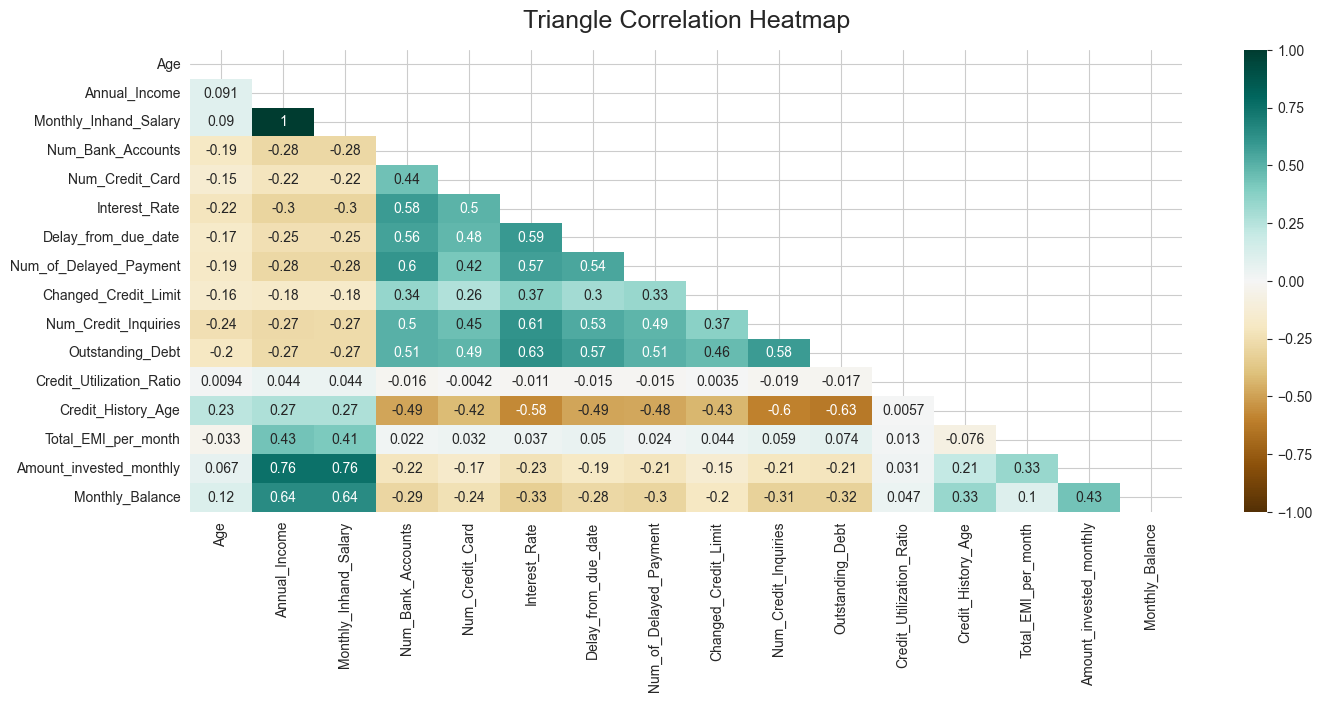
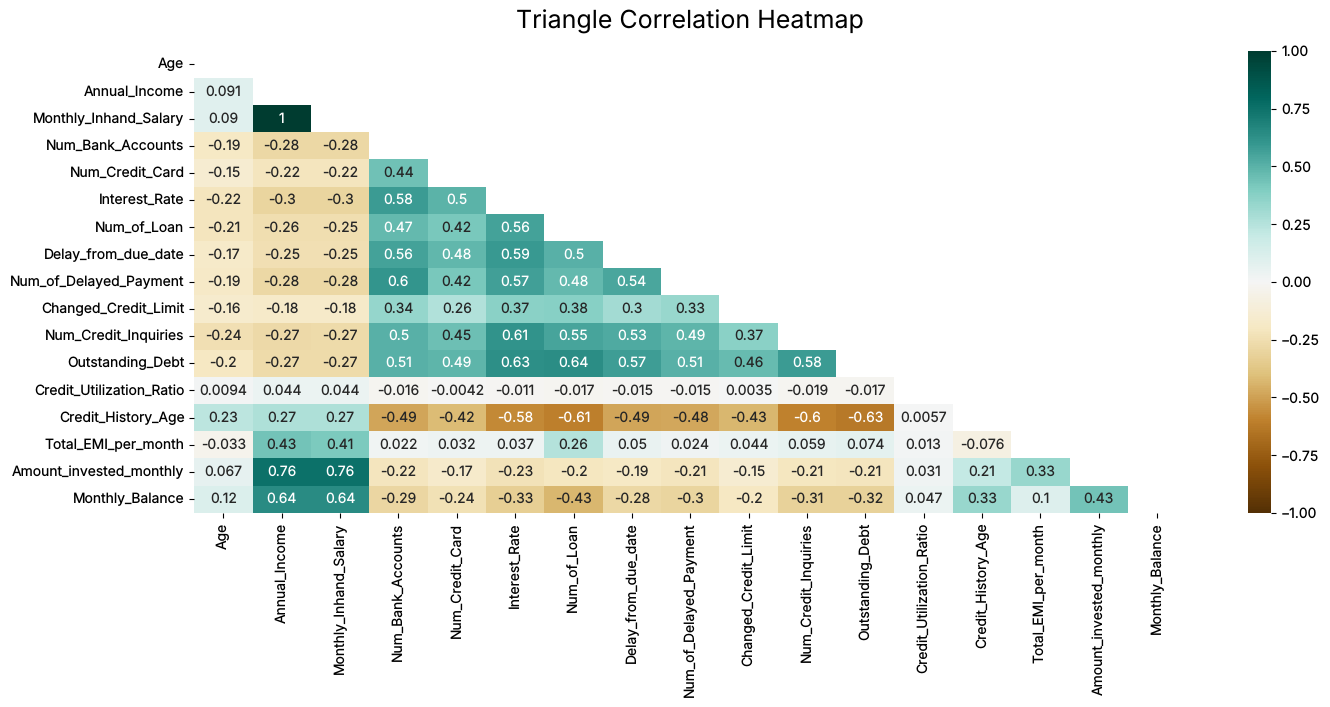
Update the README for publishing
- banner and a project-at-a-glance summary
- results: row-level table, data leakage check, final customer-level
  models with ROC-AUC, ROC curves, confusion matrices, feature
  importances and pipelines; updated conclusion and next steps
- accurate feature counts (8 for the small-subset models, 11 for the
  final models) and micro-average note
- original CRISP-DM diagram for this project (replaces an image of
  unclear origin) and the correlation heatmap from the re-executed EDA
- how to run with the pinned environment

Claude-Session: https://claude.ai/code/session_01EtrAgyPEoFbeTGtjDf7i5s

diff --git a/branding/source/crisp_dm_process.html b/branding/source/crisp_dm_process.html
@@ -1,0 +1,63 @@
+<!doctype html>
+<html lang="en"><head><meta charset="utf-8"><title>CRISP-DM process</title>
+<style>
+  * { box-sizing:border-box; margin:0; }
+  html, body { width:1600px; height:580px; overflow:hidden; }
+  body { background:#FFFFFF; font-family:Inter, sans-serif; color:#1B1E28; position:relative;
+         -webkit-font-smoothing:antialiased; }
+  .row { position:absolute; left:48px; right:48px; top:150px; display:grid;
+         grid-template-columns:repeat(6, 1fr); gap:40px; }
+  .card { position:relative; background:#FAF7F5; border:1px solid #E6E0DC; border-radius:16px;
+          padding:22px 20px 22px; }
+  .num { width:34px; height:34px; border-radius:50%; background:#BE3144; color:#fff;
+         font:600 16px Inter; display:flex; align-items:center; justify-content:center; }
+  .card.eval .num { background:#872341; }
+  h3 { margin-top:16px; font:600 20px/1.2 Inter; letter-spacing:-.01em; }
+  p { margin-top:10px; font-size:15px; line-height:1.45; color:#4A4F5E; }
+  .arrow { position:absolute; top:50%; right:-34px; width:28px; height:2px; background:#9097A6; }
+  .arrow::after { content:""; position:absolute; right:-1px; top:-5px; border-left:9px solid #9097A6;
+                  border-top:6px solid transparent; border-bottom:6px solid transparent; }
+  .data { position:absolute; left:48px; right:48px; top:438px; height:62px; border-radius:14px;
+          background:#1B1E28; color:#F4F2F5; display:flex; align-items:center; gap:14px; padding:0 24px;
+          font-size:16px; }
+  .data b { font-weight:600; }
+  .data span { color:#A9AEBC; }
+  .tag { font:500 13px "JetBrains Mono"; letter-spacing:.08em; text-transform:uppercase; color:#F8906F; }
+  .title { position:absolute; left:48px; top:36px; font:600 26px Inter; letter-spacing:-.02em; }
+  .sub { position:absolute; left:48px; top:76px; font-size:16px; color:#4A4F5E; }
+  .loop-label { position:absolute; top:94px; font:500 14px Inter; color:#872341; background:#FFFFFF;
+                padding:0 10px; }
+  .foot { position:absolute; left:48px; bottom:28px; font-size:14px; color:#7D8294; }
+</style></head>
+<body>
+  <div class="title">CRISP-DM, as applied in this project</div>
+  <div class="sub">Six phases, run iteratively: evaluation findings send the work back to earlier phases.</div>
+
+  <!-- loop arrow: Evaluation (card 5) back to Data Preparation (card 3) -->
+  <svg width="1600" height="580" style="position:absolute;left:0;top:0" aria-hidden="true">
+    <defs><marker id="h" markerWidth="12" markerHeight="12" refX="6" refY="6" orient="auto">
+      <path d="M1,1 L11,6 L1,11 Z" fill="#872341"/></marker></defs>
+    <path d="M1186,148 C1186,116 1170,110 1140,110 L717,110 C687,110 671,116 671,140"
+          fill="none" stroke="#872341" stroke-width="2" marker-end="url(#h)"/>
+  </svg>
+  <div class="loop-label" style="left:704px;top:100px">iterate: customer-level re-validation after the leakage check</div>
+
+  <div class="row">
+    <div class="card"><div class="num">1</div><h3>Business understanding</h3>
+      <p>Financial inclusion: can ML predict a customer’s credit tier (Poor / Standard / Good)?</p><i class="arrow"></i></div>
+    <div class="card"><div class="num">2</div><h3>Data understanding</h3>
+      <p>100K monthly records, 28 columns: corrupted values, outliers, missing data.</p><i class="arrow"></i></div>
+    <div class="card"><div class="num">3</div><h3>Data preparation</h3>
+      <p>Customer-level cleaning and imputation, feature selection, scaling and encoding pipelines.</p><i class="arrow"></i></div>
+    <div class="card"><div class="num">4</div><h3>Modelling</h3>
+      <p>6 model families tuned with GridSearchCV and k-fold cross-validation on ROC-AUC.</p><i class="arrow"></i></div>
+    <div class="card eval"><div class="num">5</div><h3>Evaluation</h3>
+      <p>ROC-AUC, confusion matrices, overfitting checks and a data-leakage check.</p><i class="arrow"></i></div>
+    <div class="card"><div class="num">6</div><h3>Deployment</h3>
+      <p>Recommendation: Gradient Boosting for accuracy, Logistic Regression for speed.</p></div>
+  </div>
+
+  <div class="data"><span class="tag">Data</span><b>Kaggle “Credit Score Classification”</b>
+    <span>· 100,000 records · 12,500 customers × 8 months · target: Poor / Standard / Good</span></div>
+  <div class="foot">Process model: CRISP-DM (Cross-Industry Standard Process for Data Mining). Diagram drawn for this project.</div>
+</body></html>

diff --git a/README.md b/README.md
@@ -1,6 +1,19 @@
 # Enhancing Credit Score Prediction To Promote Financial Inclusion
 
+![ScoreBridge: credit score classification with machine learning](./branding/scorebridge_showcase.png)
+
 **Author**: Vassilis Tsoubris
+
+## Project at a glance
+
+| | |
+|---|---|
+| **Goal** | Predict a customer's credit score tier (**Poor / Standard / Good**) from financial and behavioural data, to support lending decisions and promote financial inclusion. |
+| **Data** | Kaggle "Credit Score Classification": 100,000 monthly records of 12,500 customers (8 months each), 28 columns with corrupted values, outliers and missing data. |
+| **Approach** | CRISP-DM: customer-level data cleaning, EDA and expert-informed feature selection, scikit-learn pipelines, 6 model families tuned with GridSearchCV on ROC-AUC. |
+| **Key finding** | The 100k dataset contains 8 monthly records per customer. A random row-level split placed the same customers in both the training and the test set and inflated the scores (Random Forest: 80.2% with the random split vs 66.1% on unseen customers). Customer-level validation (GroupShuffleSplit + GroupKFold) gives realistic results. |
+| **Result** | Final **Random Forest** on unseen customers: **69.9% accuracy** vs a 53.1% baseline, one-vs-rest ROC-AUC 0.87 (Good), 0.85 (Poor), 0.79 (Standard). Gradient Boosting is a close second (69.5%) and Logistic Regression a fast, interpretable alternative (63.4%). |
+| **Stack** | Python, pandas, NumPy, scikit-learn, Matplotlib, Seaborn, Yellowbrick, Jupyter |
 
 ## Executive summary
 
@@ -70,14 +83,14 @@ Below a **brief explanation of each feature is demonstrated**:
 - **Credit_Score**: The credit score of the customers.
 
 After the data cleansing, EDA and feature engineering it was decided to use **two subsets of the dataset** in the modelling phase:
-- A **small subset** (11 features and 12.5k observations) of the cleaned dataset.
-- A **bigger subset** (100k observations - 14 features) which was used after the initial modelling phase on specific models.
+- A **small subset** (12.5k observations, the most recent month of every customer) with 11 features, of which the models use 8 (Credit_Utilization_Ratio, Occupation and Payment_Behaviour were excluded after the EDA).
+- A **bigger subset** (100k observations, all 8 months of every customer) with 14 features, of which the final models use 11 (the same 8 plus Num_Bank_Accounts, Num_of_Loan and Changed_Credit_Limit). It was used after the initial modelling phase on specific models.
 
 ### Methodology
 
 During this project the **CRISP-DM methodology** was followed:
 
-![CRISPDM](./images/CRISP-DM.jpg)
+![CRISP-DM process as applied in this project](./images/crisp_dm_process.png)
 
 The **Cross-Industry Standard Process for Data Mining (CRISP-DM)** is a robust and widely used approach for managing data science projects. This process model provides a structured approach to planning a data science project and includes six different phases.
 Let's explore how these phases fit into your project:
@@ -109,10 +122,10 @@ Also, the percentages per class of the target variable are shown below for the s
 
 
 
-- **Modelling**: In this stage, various modeling techniques are selected and applied, and their parameters are calibrated to optimal values. More specifically I used Logistic Regression, Decision Trees, SVM, KNN and various ensemble models. The hyperparameters of the models were fine-tuned using the Grid Search approach. Also, using the K-fold Cross Validation strategy, I mitigated the risk of overfitting the created models. 
+- **Modelling**: In this stage, various modeling techniques are selected and applied, and their parameters are calibrated to optimal values. More specifically I used Logistic Regression, Decision Trees, SVM, KNN and various ensemble models. The hyperparameters of the models were fine-tuned using the Grid Search approach. Also, using the K-fold Cross Validation strategy, I mitigated the risk of overfitting the created models. For the final models, both the cross validation (**GroupKFold**) and the train/test split (**GroupShuffleSplit**) are done **by customer**, so every customer is either in the training or in the test data.
 
 - **Evaluation**: This stage involves the evaluation of the models that were created in the modelling phase. If the models do not deliver acceptable results, I should revisit the data preparation or modelling stages. Various evaluation metrics were used including accuracy score, f1 score, ROC curves and AUC scores.
-ROC-AUC scores were the metrics that I was mainly based my decisions on modelling strategies. 
+ROC-AUC scores were the metrics that I was mainly based my decisions on modelling strategies. Finally, a **data leakage check** showed that a random split of the monthly records overestimated the performance, so the final results are measured on **unseen customers** (see Results).
 
 - **Deployment**: The final models are deployed and used to solve the initial business problem. The predictions or information derived from the model is utilized in decision-making processes.
 
@@ -133,60 +146,85 @@ You can check the AUC scores and ROC curve plots of all models in Notebook 4. In
 The baseline accuracy (the maximum of the relative frequencies of the unique values) is 51.88% for the small subset (12.5k observations) and 53.17% for the bigger subset (100k observations).
 Every model that achieves a performance equal or greater than the above baseline accuracies could be considered for deployment. Furthermore, the models are evaluated in ROC curves and AUC scores.
 
-By using the small subset (11 features and 12.5k observations) of the cleaned dataset (only 1 of the 8 included months per customer) Logistic Regression, KNN, Decision Trees, SVM and Ensemble models were created.
+By using the small subset (12.5k observations, 8 features used by the models) of the cleaned dataset (only 1 of the 8 included months per customer) Logistic Regression, KNN, Decision Trees, SVM and Ensemble models were created.
 Their results are demonstrated below: 
 
-**Important note**: You will notice that **test accuracy**, **recall**, **precision** and **f1** are similar. This is because of the **micro-average** used in the metrics. 
-**Micro-average** gives more weight to the majority class and is particularly useful when dealing with imbalanced class distributions.
+**Important note**: You will notice that **test accuracy**, **recall**, **precision** and **f1** are the same. This is because of the **micro-average** used in the metrics. 
+**Micro-average** aggregates the predictions of all classes, so in a single-label multiclass problem the micro-averaged recall, precision and f1 are equal to the accuracy. The per-class metrics (classification reports) are shown in **Notebook 4**.
 Furthermore, all models demonstrated on the tables below were fine-tuned by using the **Grid Search algorithm (exhaustive hyperparameters search) with K-folds Cross Validation**.
 
-| Models (12.5k observations - 11 features ) | training_time | train_accuracy | test_accuracy     | recall (micro-average)     | precision (micro-average)    | f1_score (micro-average)|   
+| Models (12.5k observations - 8 features )  | training_time | train_accuracy | test_accuracy     | recall (micro-average)     | precision (micro-average)    | f1_score (micro-average)|   
 |--------------------------------------------|--------------|---------------|-------------------|----------------------------|------------------------------|-------------------------|
-| Logistic Regression                        | 0.06         | 0.56          | 0.56              | 0.56                       | 0.56                         | 0.56                    |        
-| KNN Classifier                             | 0.04         | 1.00          | 0.61              | 0.61                       | 0.61                         | 0.61                    |      
-| Decision Tree Classifier                   | 0.04         | 0.59          | 0.61              | 0.61                       | 0.61                         | 0.61                    |
-| SVM Classifier                             | 10.13        | 0.60          | 0.60              | 0.60                       | 0.60                         | 0.60                    |
-| Random Forest Classifier                   | 4.48         | 0.75          | 0.62              | 0.62                       | 0.62                         | 0.62                    |
-| Gradient Boosting Classifier               | 2.17         | 0.65          | 0.62              | 0.62                       | 0.62                         | 0.62                    |
+| Logistic Regression                        | 0.05         | 0.56          | 0.56              | 0.56                       | 0.56                         | 0.56                    |        
+| KNN Classifier                             | 0.03         | 1.00          | 0.61              | 0.61                       | 0.61                         | 0.61                    |      
+| Decision Tree Classifier                   | 0.03         | 0.59          | 0.61              | 0.61                       | 0.61                         | 0.61                    |
+| SVM Classifier                             | 5.83         | 0.60          | 0.60              | 0.60                       | 0.60                         | 0.60                    |
+| Random Forest Classifier                   | 3.50         | 0.75          | 0.62              | 0.62                       | 0.62                         | 0.62                    |
+| Gradient Boosting Classifier               | 2.09         | 0.65          | 0.62              | 0.62                       | 0.62                         | 0.62                    |
 
-Logistic Regression, Random Forest and Gradient Boosting Classifiers are then trained on the big subset which includes more features and contains all the months per customer (100k observations).
-In other words, the dataset contains 14 features and 100k observations. The results of the new final models are shown below:
+Logistic Regression, Random Forest and Gradient Boosting Classifiers are then trained on the big subset which contains all the months per customer (100k observations).
+Using a random (row-level) train/test split, the results of these models are shown below:
 
-| Final Models (100k observations - 14 features ) | training_time | train_accuracy | test_accuracy | recall (micro-average)     | precision (micro-average)    | f1_score (micro-average)|   
-|-------------------------------------------------|---------------|----------------|---------------|----------------------------|------------------------------|-------------------------|
-| Logistic Regression                             | 0.46          | 0.61           | 0.62          | 0.62                       | 0.62                         | 0.62                    |
-| Random Forest Classifier                        | 63.88         | 0.88           | 0.80          | 0.80                       | 0.80                         | 0.80                    |
-| Gradient Boosting Classifier                    | 33.91         | 0.78           | 0.74          | 0.74                       | 0.74                         | 0.74                    |
+| Models (100k observations - row-level split) | training_time | train_accuracy | test_accuracy | recall (micro-average) | precision (micro-average) | f1_score (micro-average) |
+|----------------------------------------------|---------------|----------------|---------------|------------------------|---------------------------|--------------------------|
+| Logistic Regression                          | 0.38          | 0.61           | 0.62          | 0.62                   | 0.62                      | 0.62                     |
+| Random Forest Classifier                     | 47.98         | 0.88           | 0.80          | 0.80                   | 0.80                      | 0.80                     |
+| Gradient Boosting Classifier                 | 32.64         | 0.78           | 0.74          | 0.74                   | 0.74                      | 0.74                     |
+
+#### Data leakage check: customer-level validation
+These results looked excellent, but they are **optimistic**. The bigger subset contains **8 monthly records per customer** and the random split placed records of the **same customer** in both the training and the test set (100% of the test observations belong to customers that also appear in the training set).
+Features such as Annual_Income, Outstanding_Debt and Credit_Mix never change for a customer (the pair of Annual_Income and Outstanding_Debt alone is unique for every one of the 12,500 customers), so the tree-based models could recognise (*memorise*) customers instead of learning patterns that generalise.
+In practice, a credit scoring model is used on **new customers**, so I evaluated the models again with a **customer-level split**:
+- **GroupShuffleSplit**: 20% of the customers (2,500 customers with all their records) are kept for testing.
+- **GroupKFold** (K=3) as the cross validation strategy of **GridSearchCV**, so the hyperparameters are also chosen on unseen customers. Since the earlier hyperparameters were optimised on leaked data, the grids also include simpler (more regularised) values.
+- The preprocessors are created from the bigger subset, so the 3 features that were added for it are actually used (the earlier pipelines reused the preprocessors of the small subset with remainder='drop', so those models used only 8 features).
+
+![leakage_check](./images/leakage_check_accuracy.png)
+
+| Test accuracy        | Row-level split (data leakage) | Customer-level split (same model) | Customer-level split (tuned on unseen customers) |
+|----------------------|--------------------------------|-----------------------------------|--------------------------------------------------|
+| Logistic Regression  | 61.7%                          | 61.4%                             | 63.4%                                            |
+| Random Forest        | 80.2%                          | 66.1%                             | **69.9%**                                        |
+| Gradient Boosting    | 74.0%                          | 64.8%                             | 69.5%                                            |
+
+On new customers the tree-based ensembles lose 9 to 14 points of accuracy with exactly the same models, while Logistic Regression (a linear model that cannot memorise customers) is almost unaffected. Tuning on unseen customers selects simpler models and recovers a large part of the gap.
+
+The final models (customer-level validation, 11 features) are shown below. The baseline accuracy of the customer-level test set is 53.12%.
+
+| Final Models (100k observations - customer-level validation) | training_time | train_accuracy | test_accuracy | recall (micro-average) | precision (micro-average) | f1_score (micro-average) | ROC-AUC (macro, one-vs-rest) |
+|--------------------------------------------------------------|---------------|----------------|---------------|------------------------|---------------------------|--------------------------|------------------------------|
+| Logistic Regression                                          | 0.40          | 0.63           | 0.63          | 0.63                   | 0.63                      | 0.63                     | 0.79                         |
+| Random Forest Classifier                                     | 9.32          | 0.72           | **0.70**      | 0.70                   | 0.70                      | 0.70                     | **0.84**                     |
+| Gradient Boosting Classifier                                 | 18.42         | 0.70           | 0.69          | 0.69                   | 0.69                      | 0.69                     | 0.83                         |
 
 According to the above results of the final models:
-- Random Forests give excellent results but tend to overfit. In other words, there is a high probability to give wrong predictions if more unseen data is introduced to the problem. We should avoid deploying these models.
-- Gradient Boosting Classifiers should be the alternative if the performance is our goal. Although they tend to overfit, the value difference between train and test accuracy score is smaller than of the random forest classifiers'. In other words GB Classifiers are more suitable models for credit scoring.
-- If training speed is our goal we should choose Logistic Regression. Logistic Regression is widely used on Credit Scoring systems and has a good performance (not excellent).
+- The **Random Forest Classifier** gives the best results on unseen customers: 69.9% accuracy and ROC-AUC scores of 0.87 (Good), 0.85 (Poor) and 0.79 (Standard). Tuned with the customer-level cross validation it is regularised (max_depth=10, min_samples_leaf=5), so the overfitting of the earlier Random Forests, which memorised customers, is solved.
+- The **Gradient Boosting Classifier** is a close alternative (69.5% accuracy) with an even smaller gap between the train and test accuracy. The difference between the two ensembles is small, so both are suitable for credit scoring.
+- If training speed is our goal we should choose **Logistic Regression**. Logistic Regression is widely used on Credit Scoring systems and has a good performance (not excellent), and it is easy to interpret.
 
-Below, the ROC curves of the final chosen models are presented along with their confusion matrices. 
+Below, the ROC curves of the final chosen models are presented along with their confusion matrices.
 
-Furthermore , the mapping of classes is demonstrated below (needed to interpret the confusion matrices):
-- Good: 0
-- Poor: 1
-- Standard: 2
+**Final Random Forest Classifier**:
 
-**Final Gradient Boosting Classifier**:
-
-![roc_gbc](./images/ROC_gbc_v2_final.png)
-![cm_gbc](./images/output_cm_gbc_v2.png)
+![roc_rf](./images/ROC_rf_final.png)
+![cm_rf](./images/cm_rf_final.png)
 
 **Final Logistic Regression Classifier**:
 
-![roc_lr](./images/ROC_lr_v2_final.png)
-![cm_lr](./images/output_cm_lr_v2.png)
+![roc_lr](./images/ROC_lr_final.png)
+![cm_lr](./images/cm_lr_final.png)
+
+Both tree-based models agree on the most important features: **Outstanding_Debt** and **Credit_Mix**, followed by the payment behaviour (Delay_from_due_date, Payment_of_Min_Amount).
+
+![feature_importance](./images/feature_importance_final.png)
 
 To check all the ROC-AUC curves and more technical plots you can reference the **Notebook 4**.
 
 Lastly, the structure of the final chosen models is presented below.
 
-**Final Gradient Boosting Classifier**:
+**Final Random Forest Classifier**:
 
-![pipeline_gbc](./images/pipeline_gbc_final.png)
+![pipeline_rf](./images/pipeline_rf_final.png)
 
 **Final Logistic Regression Classifier**:
 
@@ -194,8 +232,9 @@ Lastly, the structure of the final chosen models is presented below.
 
 
 ### Conclusion
-**As indicated from the results above, machine learning could be used to produce credit scores of a financial institution's customers.**
-**More specifically, two models could be used in our case; the Gradient Boosting Classifier or the Logistic Regression, depending on the strategy followed by the financial institution.**
+**As indicated from the results above, machine learning could be used to produce credit scores of a financial institution's customers: on unseen customers the best model classifies 69.9% of the customers correctly, against 53.1% for the baseline.**
+**More specifically, two models could be used in our case; the Random Forest Classifier or the Logistic Regression, depending on the strategy followed by the financial institution (performance vs speed and interpretability).**
+**Furthermore, the validation strategy must reflect how the models are used: splitting the data by customer revealed that the first results of the bigger subset were inflated by data leakage, and it produced simpler models that generalise better to new customers.**
 
 ### Next steps
 Below there are some recommendations and next steps to incorporate into the project:
@@ -204,6 +243,8 @@ Below there are some recommendations and next steps to incorporate into the proj
 - We could develop **Neural Network models** using Tensorflow and Keras. For example CNNs for classification on tabular data could provide excellent performance.
 - We could use expert AI models like **ANFIS (Artificial Neuro-fuzzy Inference System)** which is a more interpretable NN architecture that uses fuzzy logic to explain the rules that it creates. ANFIS could be an excellent case especially if interpretability is needed along with accurate predictions.
 - Generally, we could integrate approaches like the **SHAP values** to explain and better understand the models created.
+- We could validate the models with a **time-based split** (train on the earlier months and test on the later months), which simulates how a credit scoring model is used in production.
+- Before using the models for lending decisions, we should perform a **fairness (bias) analysis**, e.g. compare the errors across age groups and occupations. This is essential for the financial inclusion objective of the project.
 
 ### Outline of project
 Notebooks:
@@ -221,6 +262,21 @@ Additional directories:
 - Initial Dataset can be found on **data_uncleaned** folder.
 - In addition, the **data_clean** folder includes the datasets used on Notebooks 2, 3, 4.
 - Moreover,  **images** folder includes all exported visualisations.
+- The **branding** folder includes the project's logo and presentation graphics, and the scripts that generate them.
+
+### How to run
+The notebooks run with **Python 3.11** and the library versions pinned in requirements.txt:
+
+```bash
+git clone https://github.com/vtsou359/Credit_Score_Classification_Project.git
+cd Credit_Score_Classification_Project
+python -m venv venv
+source venv/bin/activate        # on Windows: venv\Scripts\activate
+pip install -r requirements.txt
+jupyter notebook
+```
+
+Run the notebooks in order (Notebook 1 → 4). Notebooks 1-3 take a few minutes; Notebook 4 takes about 75 minutes on a 4-core machine because of the grid searches.
 
 ### Contact and Further Information
 Contact me through:
